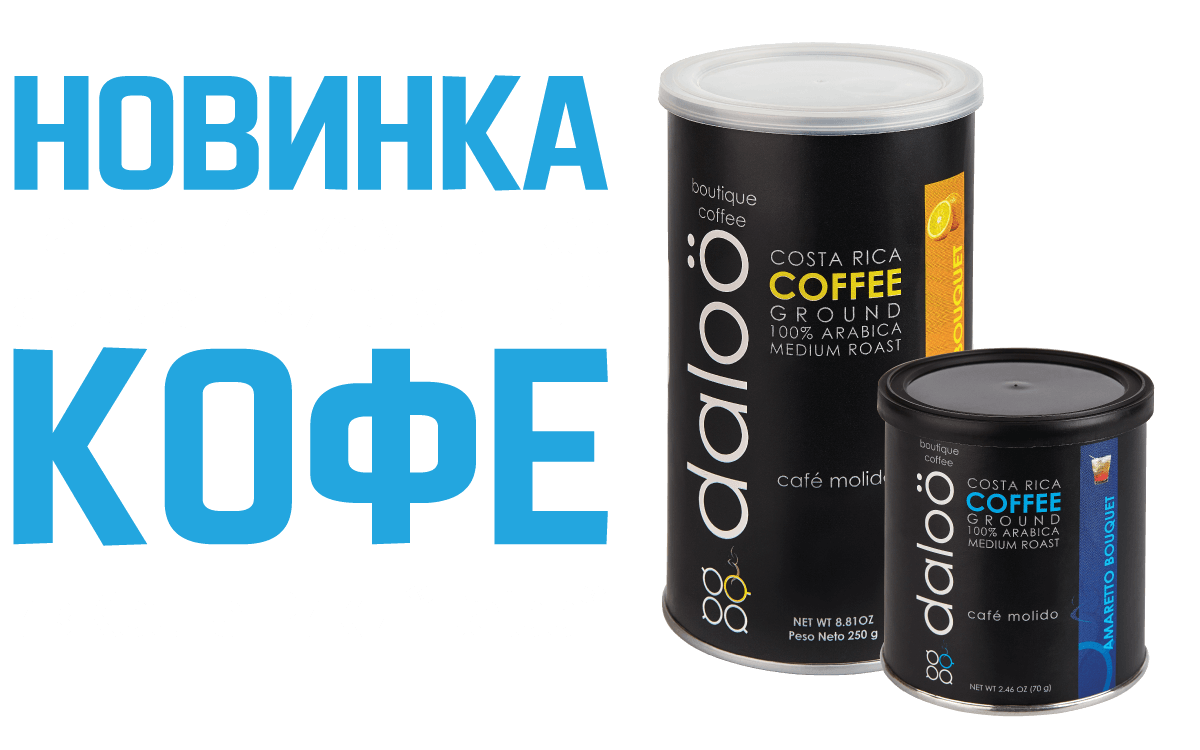
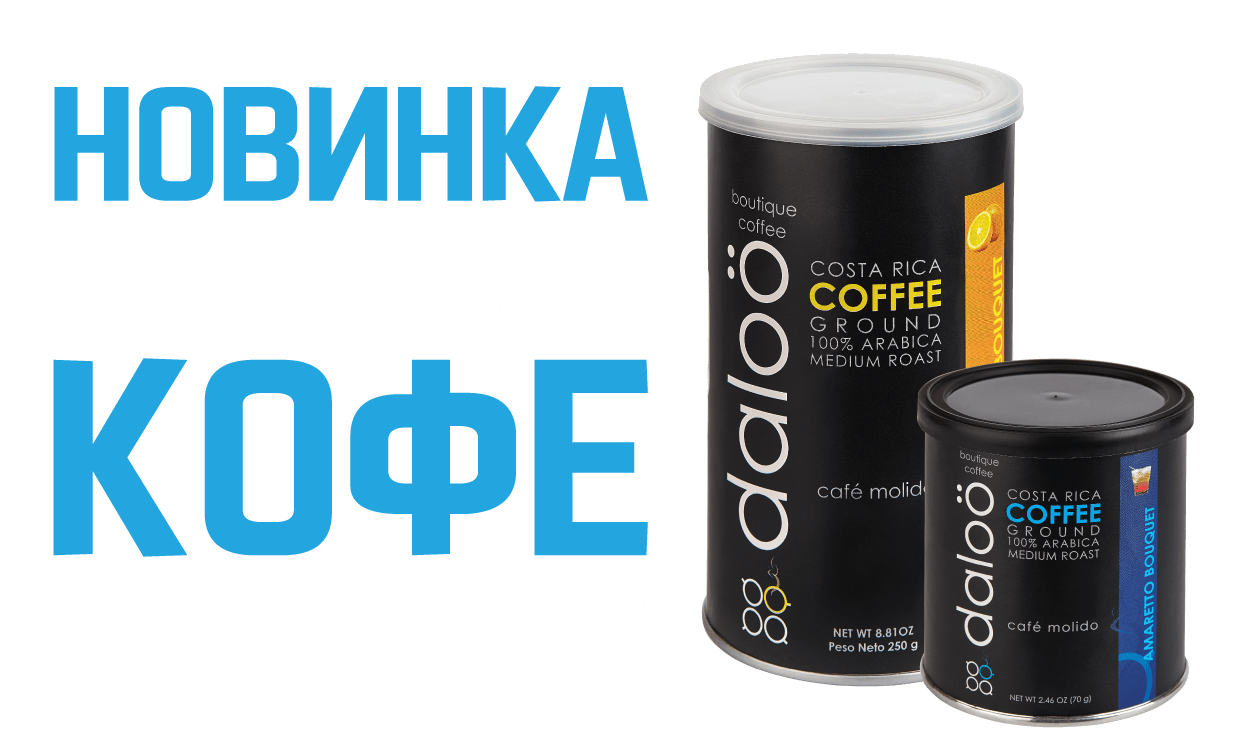
add slides

Changed region(s): [[0.0, 0.0307, 0.9867, 0.9813], [0.0, 0.46, 0.5242, 0.7667]]

diff --git a/www/index.html b/www/index.html
@@ -46,12 +46,18 @@
         <div class="carousel-inner" role="listbox">
             <div class="item active">
                 <div class="container">
-                    <img src="/i/slide1.png" width="1200" height="750" class="img-responsive" alt="">
+                    <img src="/i/slide1.png" width="1260" height="750" class="img-responsive" alt="">
                 </div>
             </div>
             <div class="item">
+                <div class="container">
+                    <img src="/i/slide2.png" width="1260" height="750" class="img-responsive" alt="">
+                </div>
             </div>
             <div class="item">
+                <div class="container">
+                    <img src="/i/slide3.png" width="1260" height="750" class="img-responsive" alt="">
+                </div>
             </div>
         </div>
 
